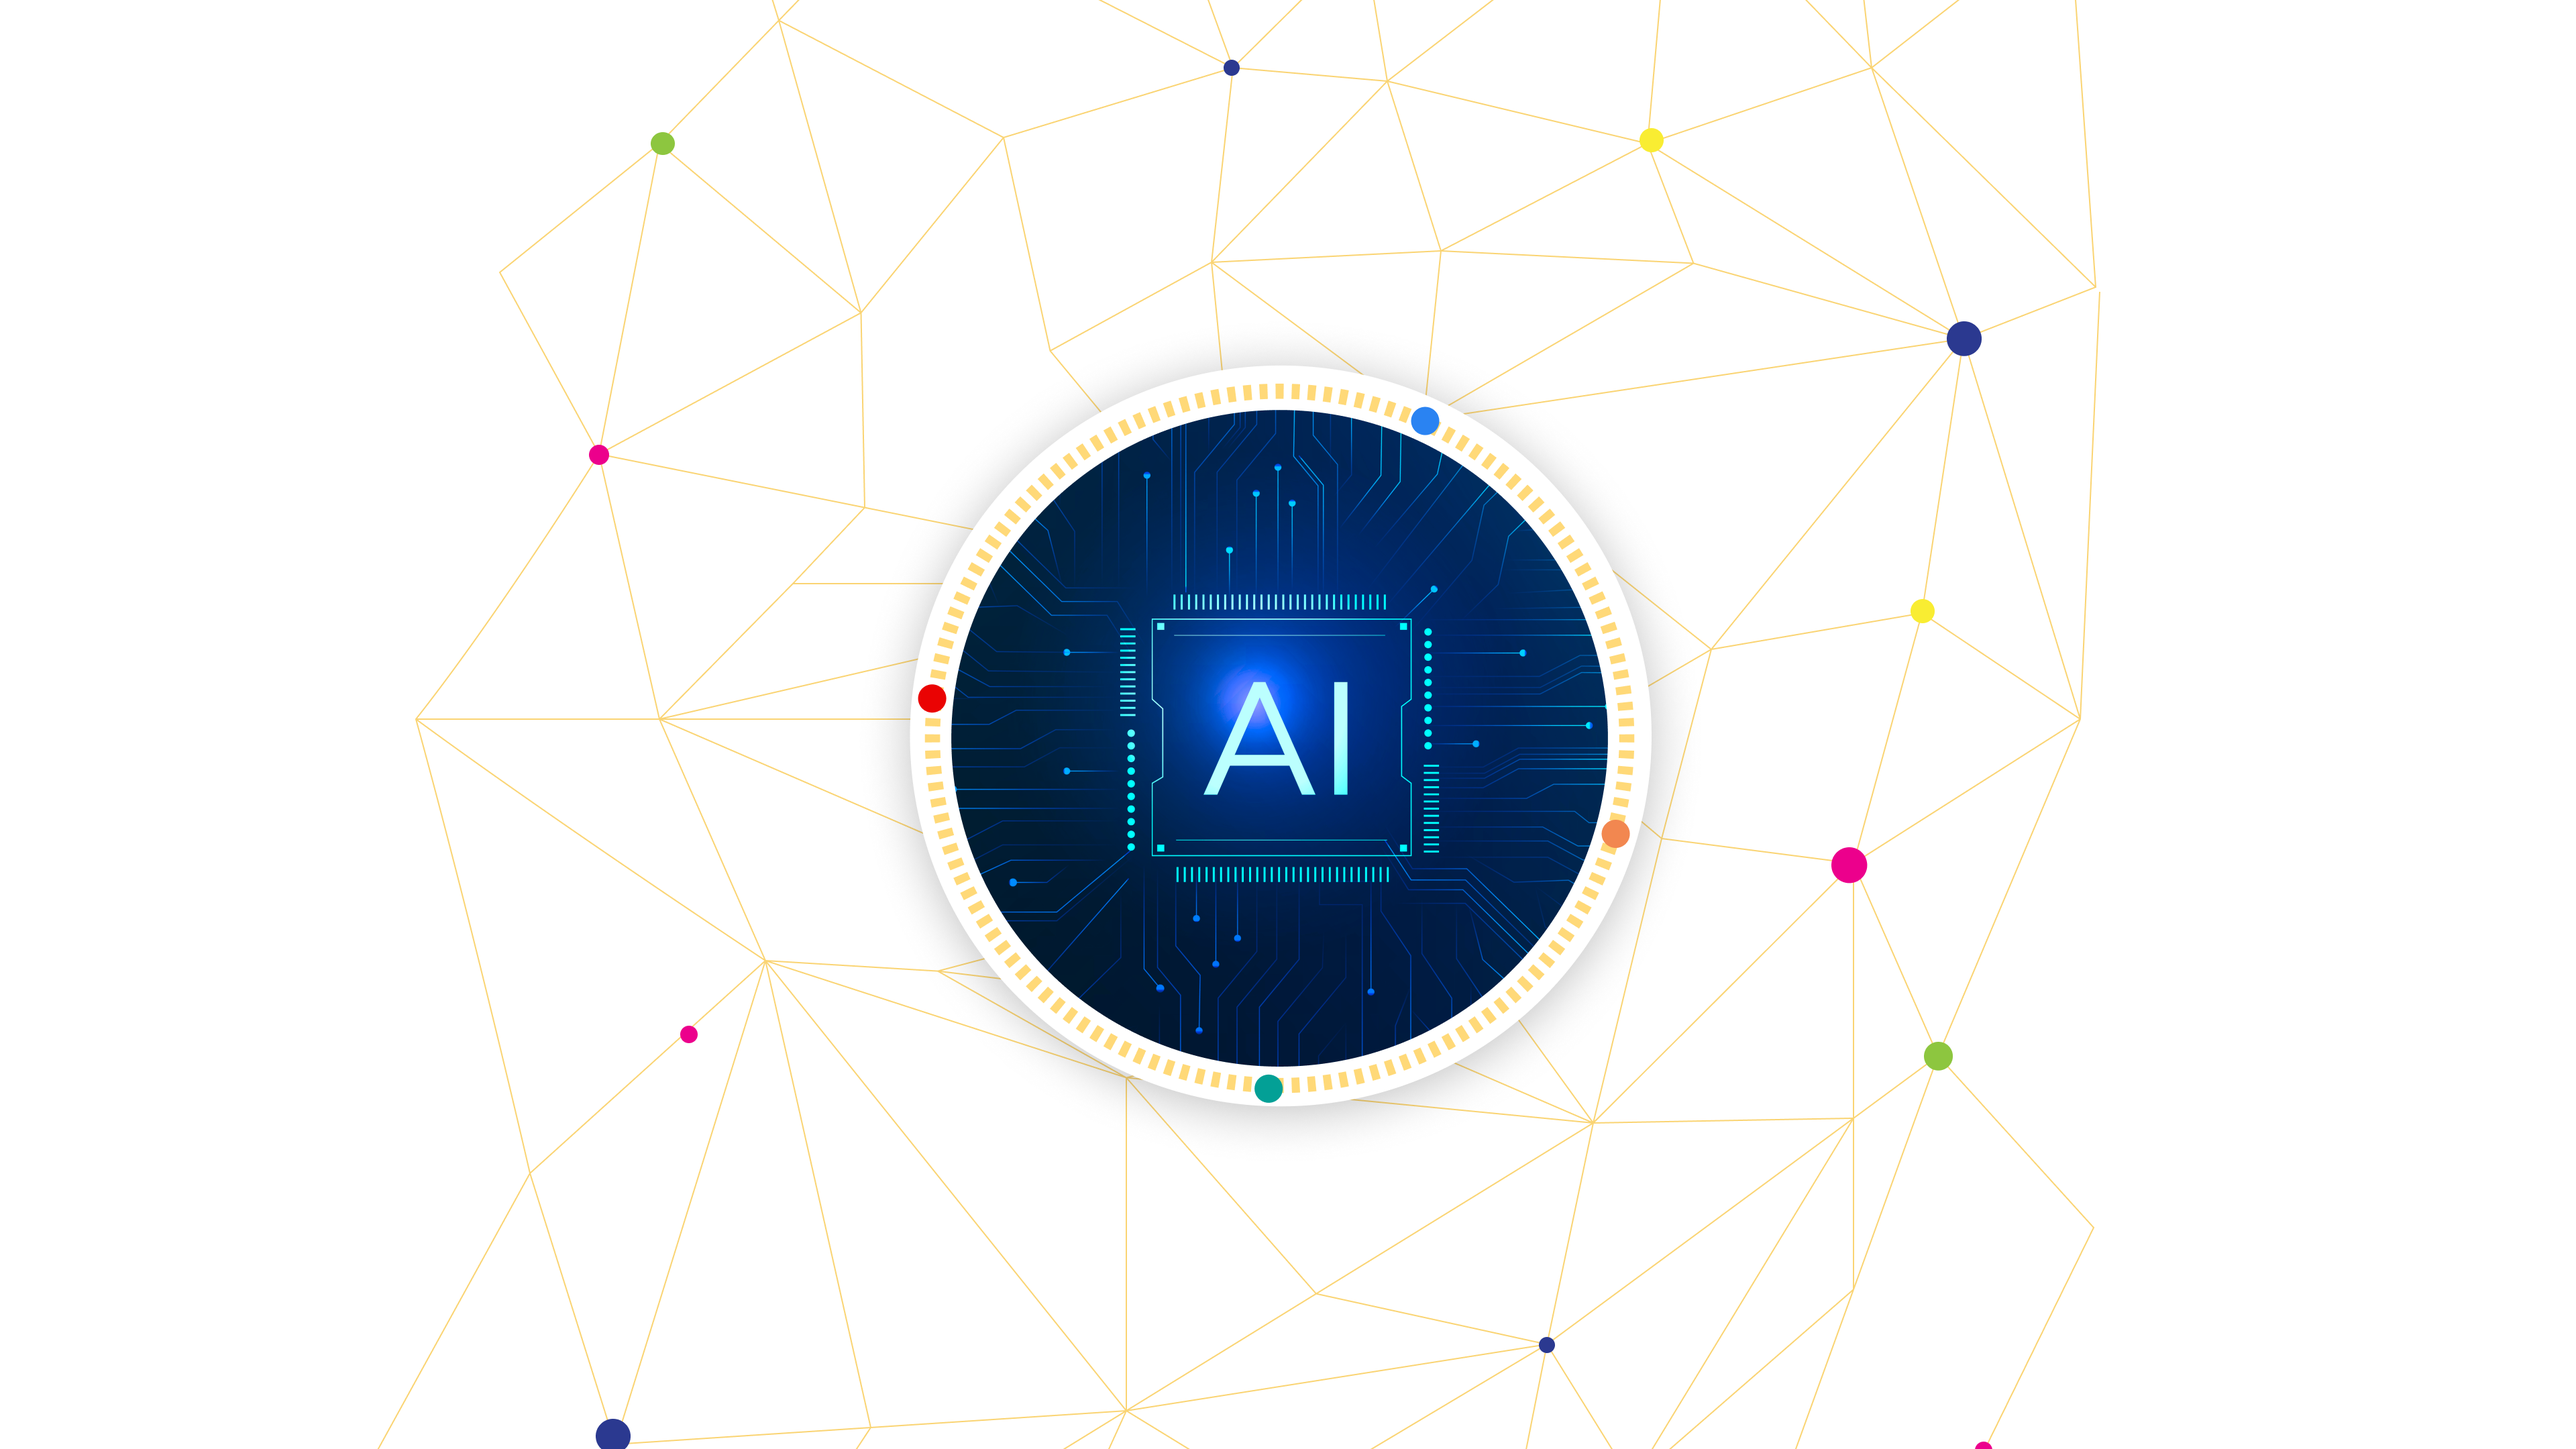
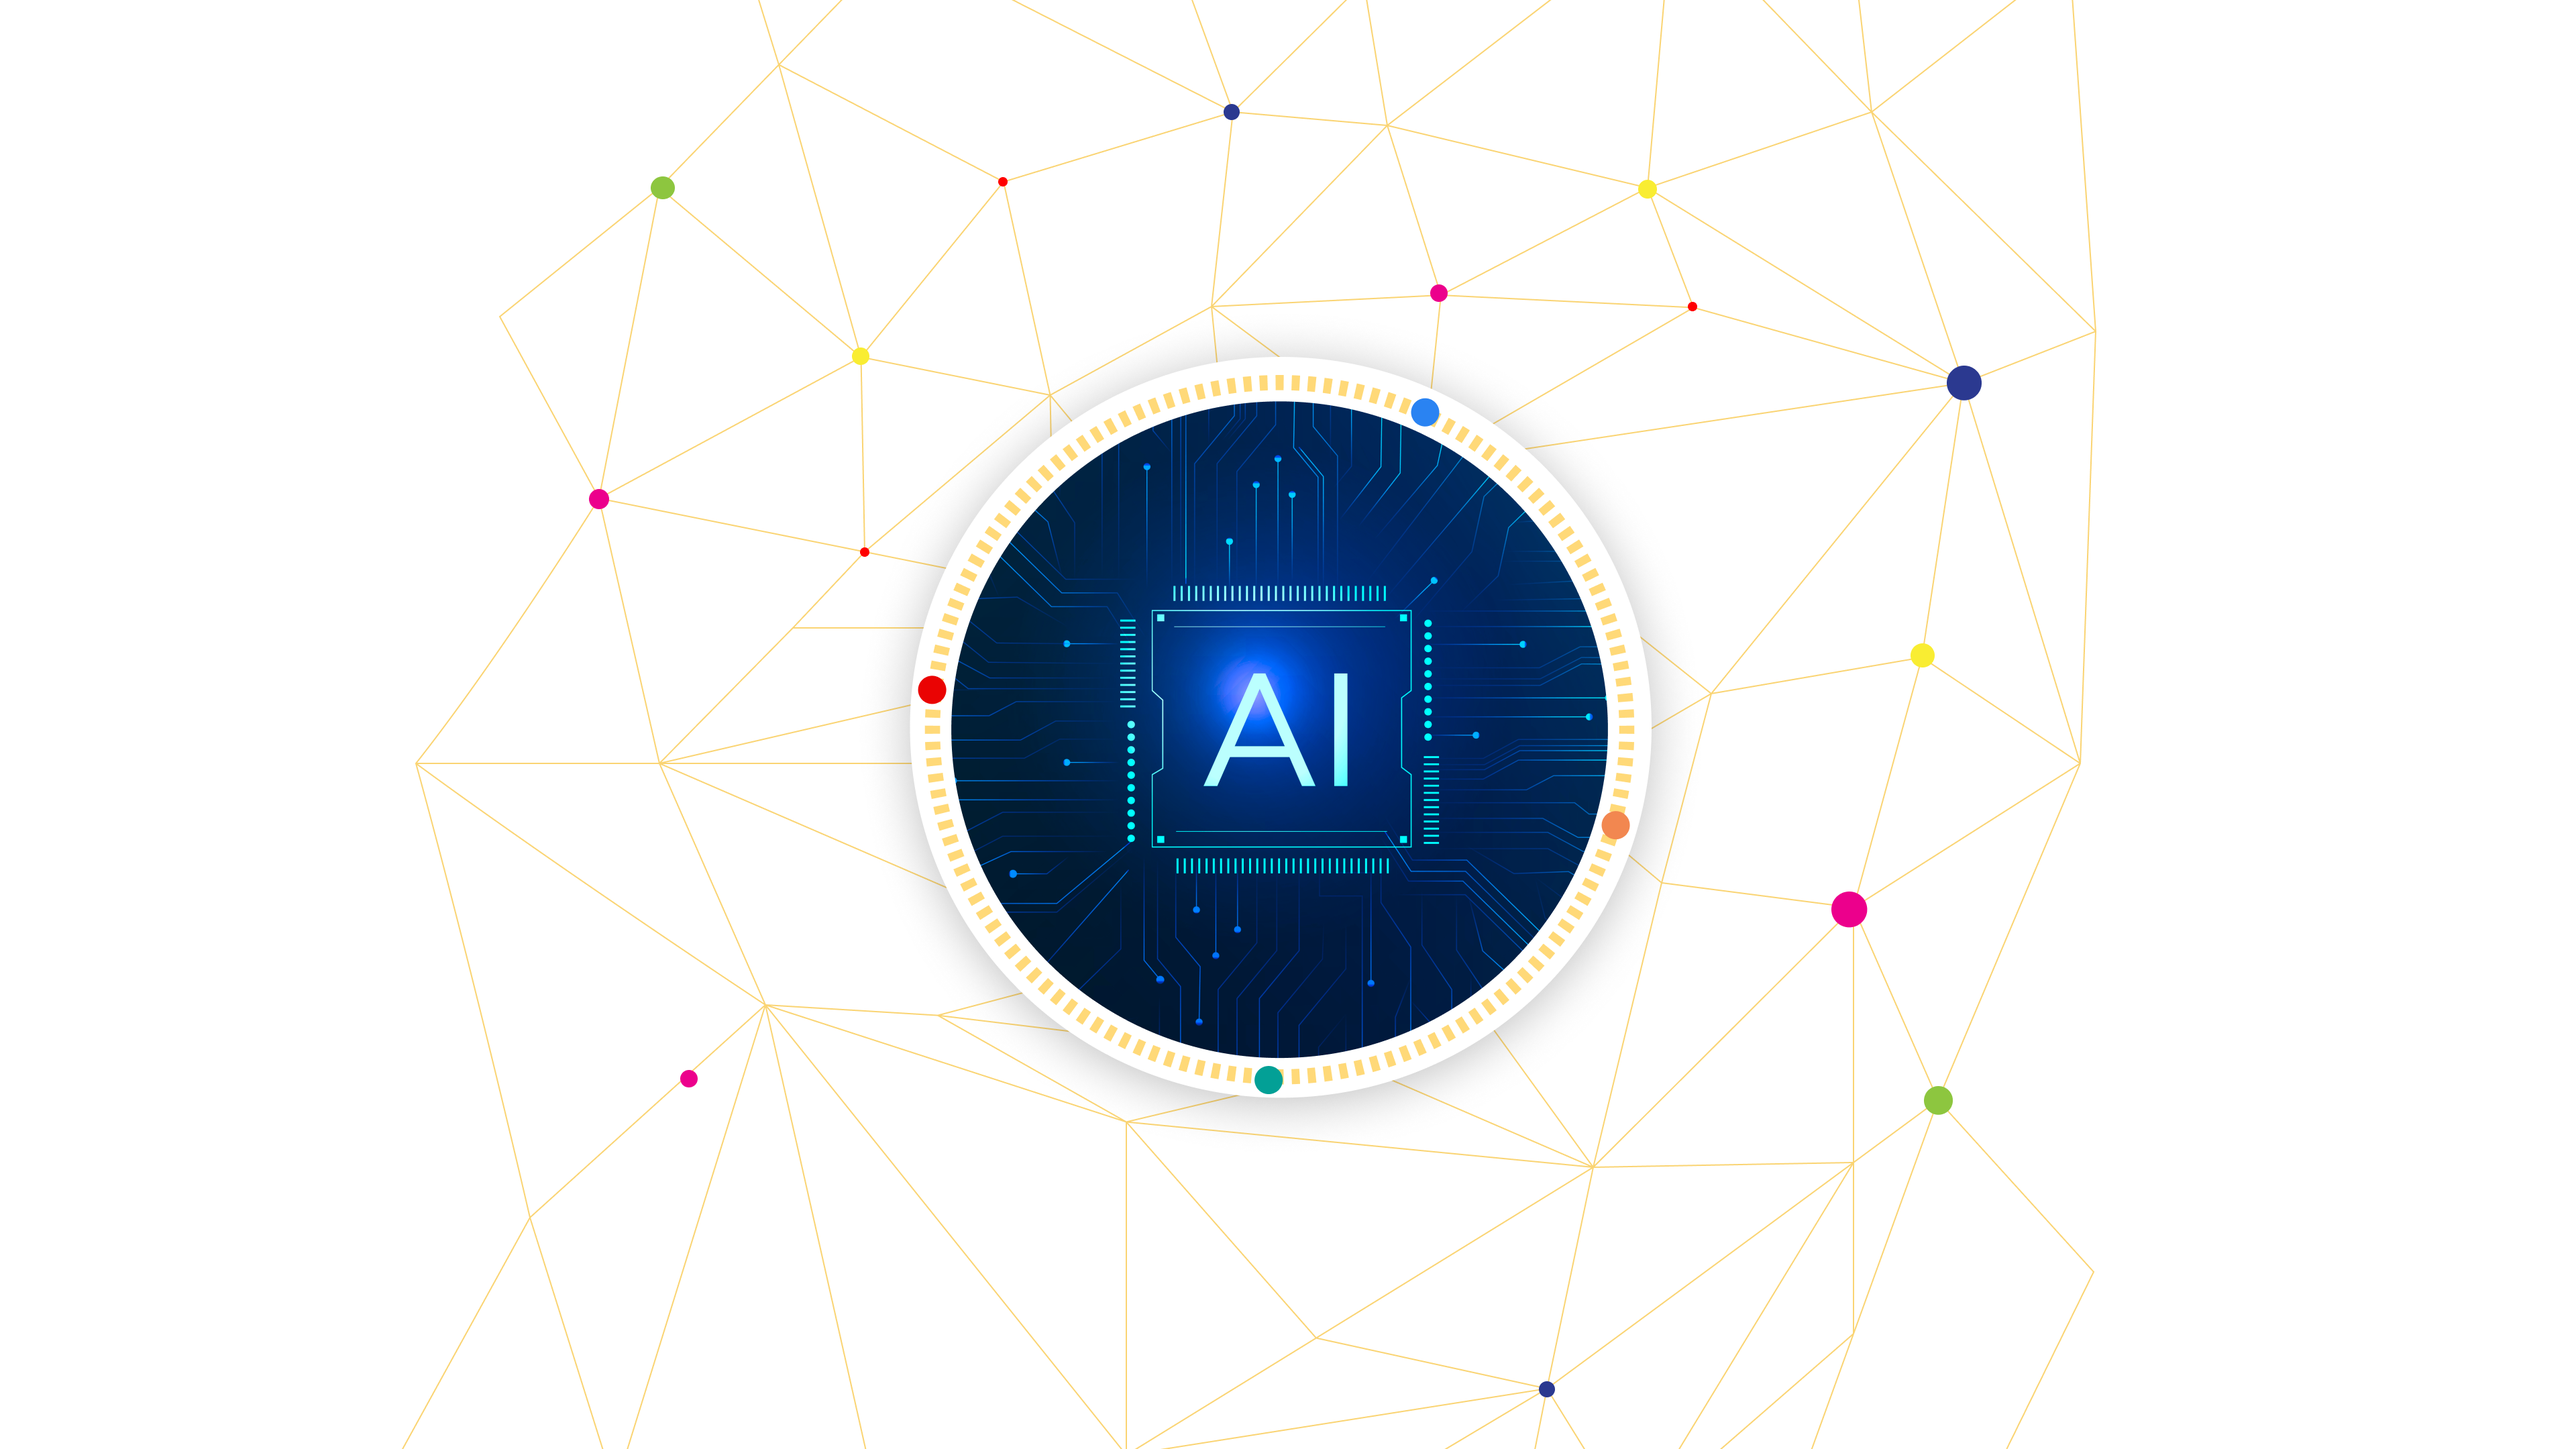
minor

diff --git a/lib/products-data.ts b/lib/products-data.ts
@@ -145,7 +145,7 @@ export const products: Product[] = [
     ctaText: "Request Demo",
     ctaSubtext: "Join the AxonHIS Network and revolutionize your healthcare delivery with advanced clinical management solutions.",
     calendlyUrl: "https://calendly.com/axonichealth-info/axonhis",
-    shortPunchLine: "One Platform. Total Control."
+    shortPunchLine: "Total Hospital Intelligence in One Platform (50+ Modules)"
   },
   {
     id: 3,
@@ -203,7 +203,7 @@ export const products: Product[] = [
     ctaText: "Join our network",
     ctaSubtext: "Join the AxonMD Network and transform your clinic management with comprehensive digital solutions.",
     calendlyUrl: "https://calendly.com/axonichealth-info/axonmd",
-    shortPunchLine: "Total Hospital Intelligence in One Platform"
+    shortPunchLine: "Smart Autopilot for every doctor"
   },
   {
     id: 4,

diff --git a/app/ai-platform/page.tsx b/app/ai-platform/page.tsx
@@ -258,7 +258,7 @@ function AIPillCard({ product, align }: { product: Product; align: "left" | "rig
             />
           )}
           {product.shortDescription && (
-            <p className="mt-[clamp(0.25rem,1vw,0.5rem)] text-[clamp(0.85rem,1vw,1rem)] text-gray-800 line-clamp-3">
+            <p className="mt-[clamp(0.25rem,1vw,0.5rem)] text-sm text-gray-800">
               {product.shortPunchLine}
             </p>
           )}
